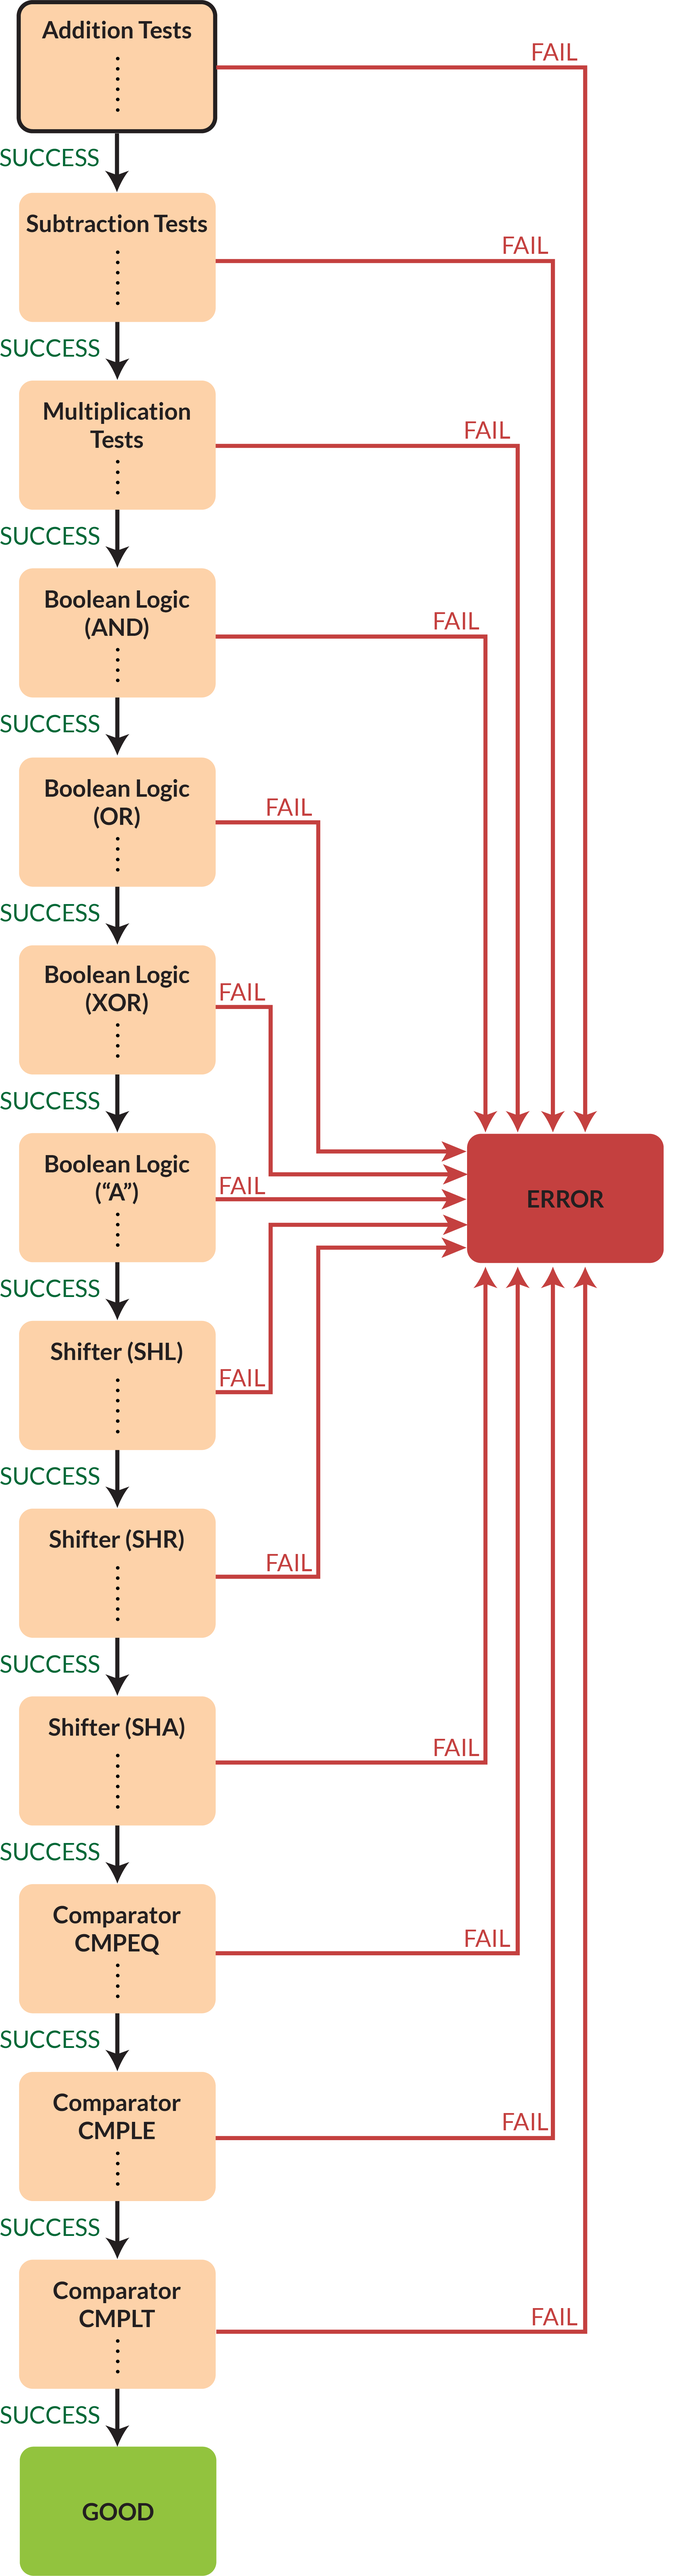
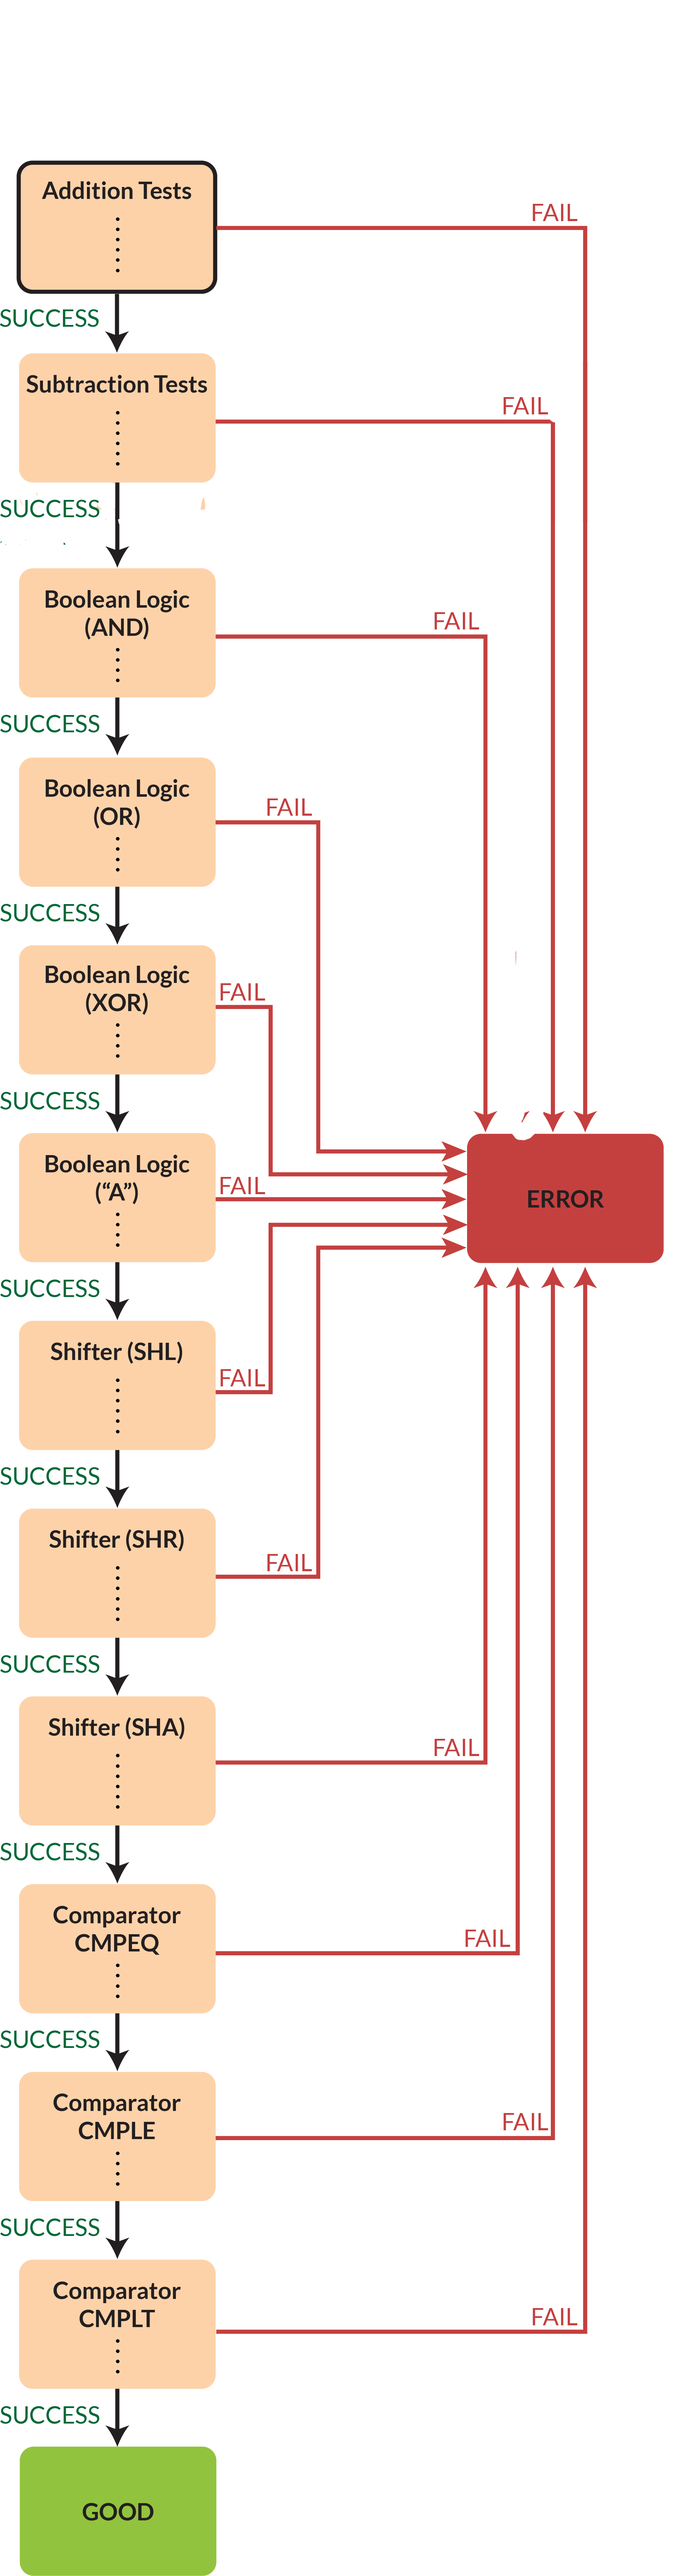
final edits

diff --git a/README.md b/README.md
@@ -3,7 +3,7 @@ Implement 16-bit ALU design on an FPGA and test the functionality of the 16-bit 
 Testing is done by either manual testing or auto testing with FSM.
 
 ### Core ALU Functionality
-* Addtion/Subtraction/Multiplication/Inverter
+* Addtion/Subtraction/Inverter
 * Boolean (AND, OR, XOR)
 * Shift Left/Right (with optional sign extension)
 * Comparison (equal, less than, or both)
@@ -26,7 +26,6 @@ The automated testing tests each operations 2 times in this order:
 
 - Addition
 - Subtraction
-- Multiplication
 - And
 - Or
 - Xor
